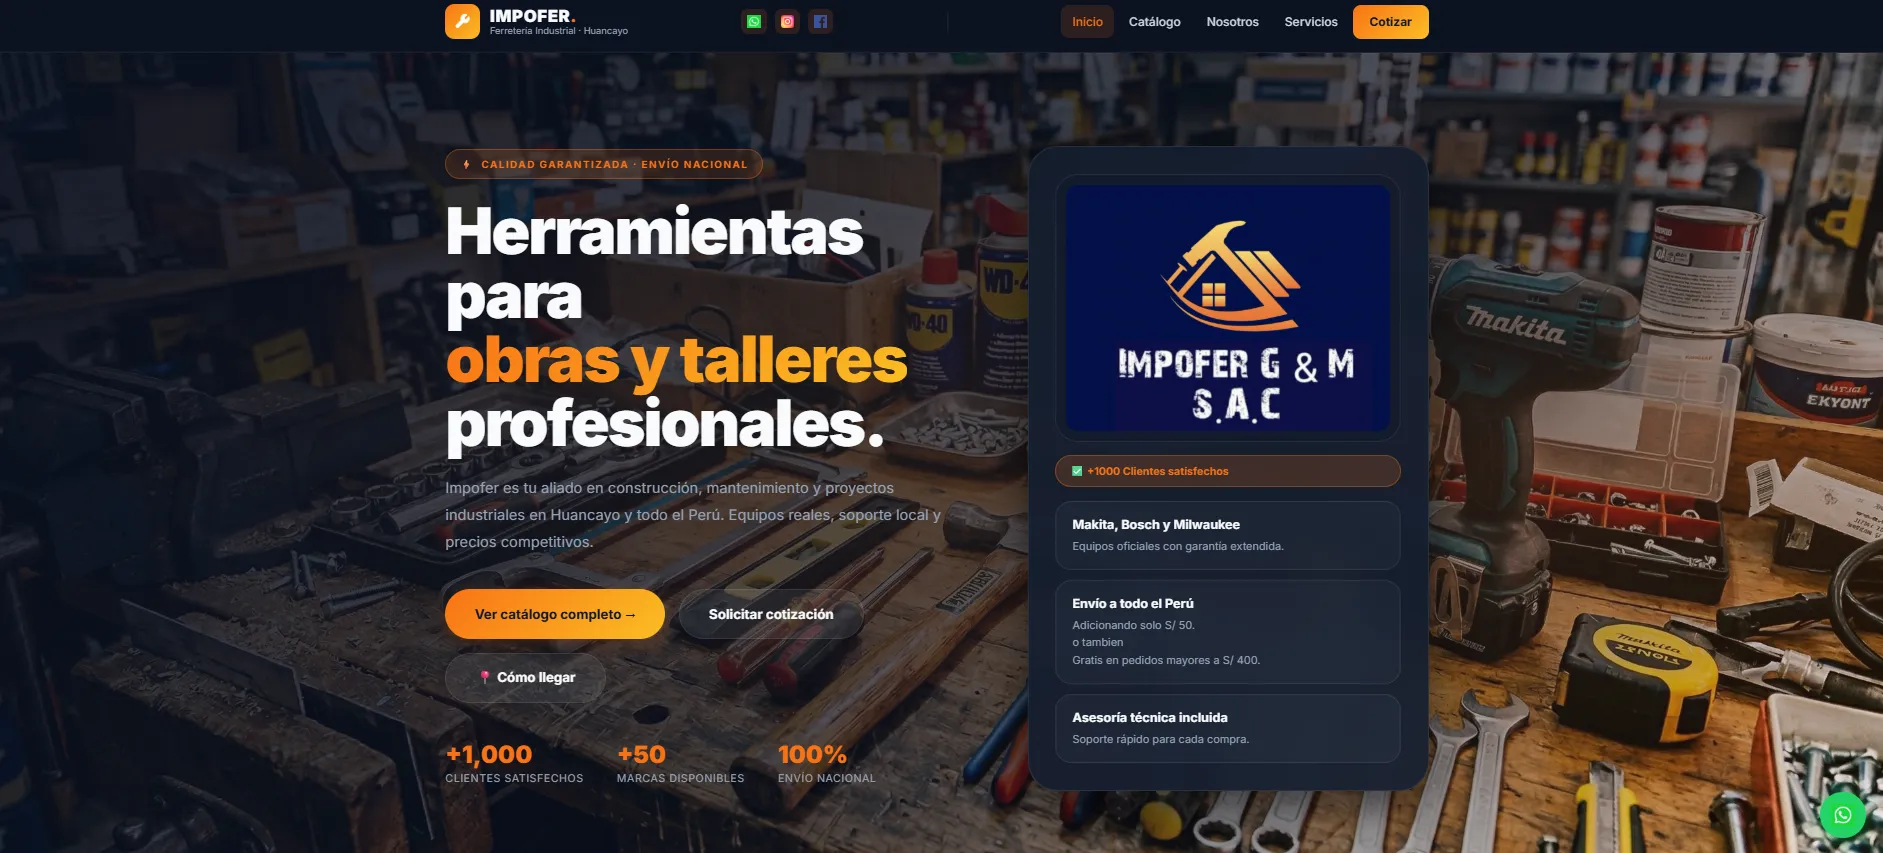
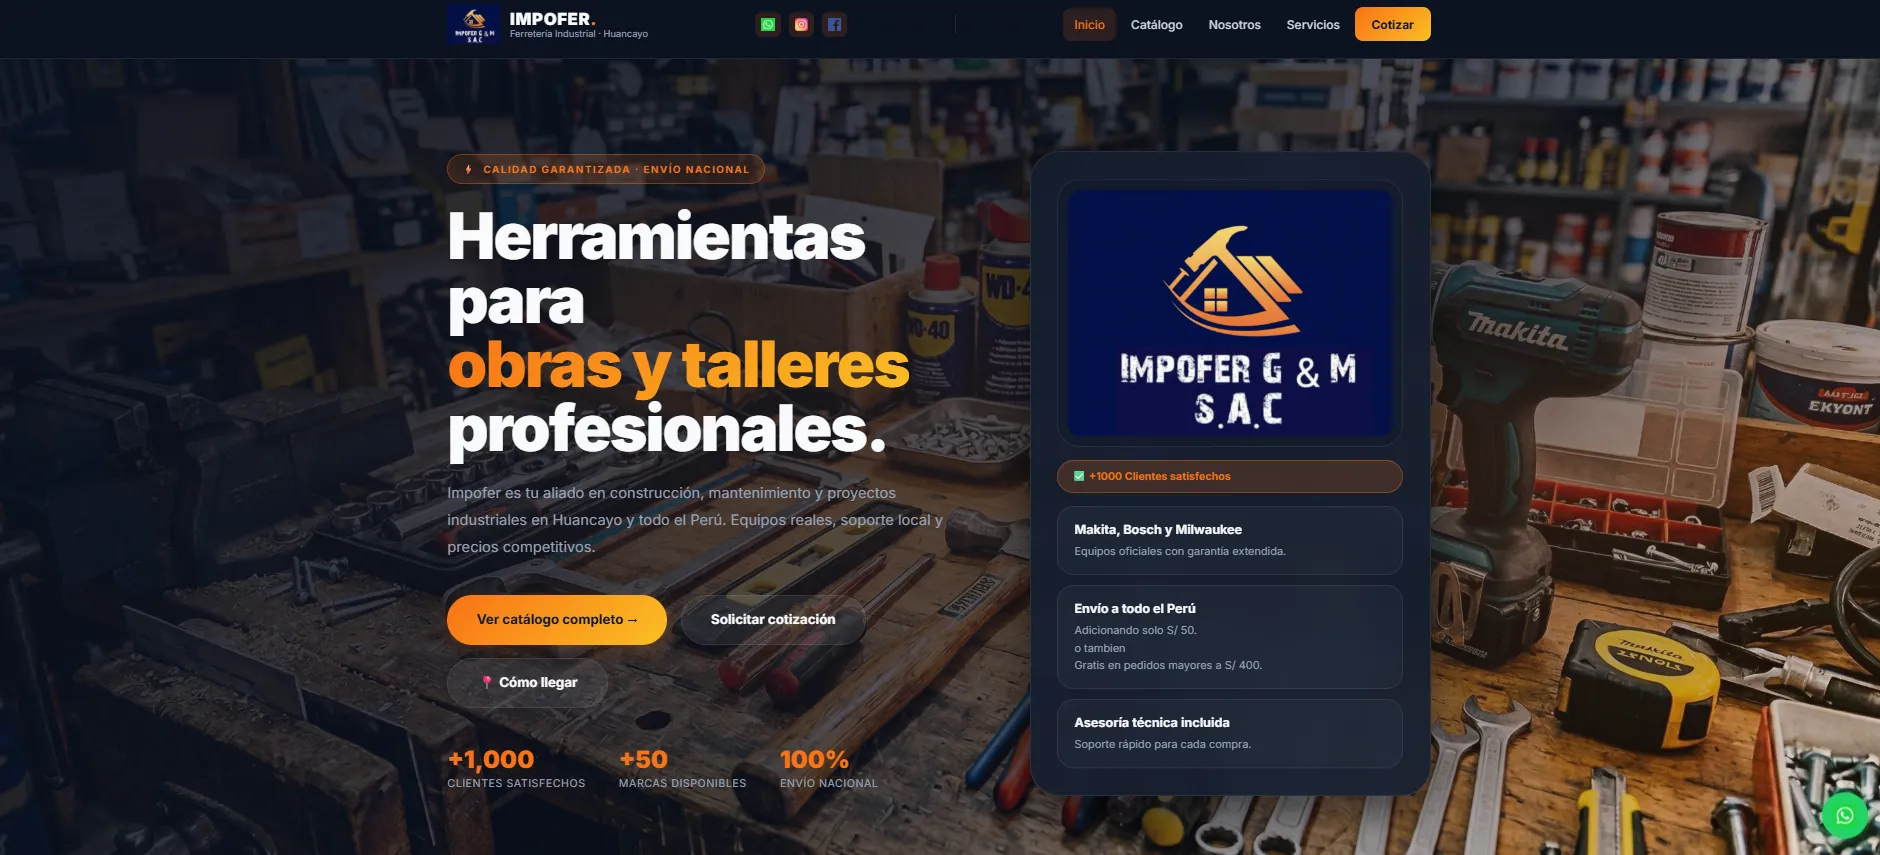
feat: optimizar imagen impofer a webp y redisenar por que elegirnos con SVGs minimalistas

diff --git a/index.html b/index.html
@@ -437,9 +437,31 @@
                 <div class="why-us-card-inner">
                     <div class="why-us-card-front">
                         <span class="why-us-card-num">01</span>
-                        <div class="why-us-card-icon">
-                            <svg width="26" height="26" viewBox="0 0 24 24" fill="none" stroke="currentColor" stroke-width="2" stroke-linecap="round" stroke-linejoin="round"><polyline points="16 18 22 12 16 6"/><polyline points="8 6 2 12 8 18"/></svg>
-                        </div>
+                        <!-- Clean Code Terminal Illustration -->
+                        <svg class="why-us-illustration" viewBox="0 0 200 120" fill="none" xmlns="http://www.w3.org/2000/svg">
+                            <!-- IDE/Terminal Frame -->
+                            <rect x="10" y="10" width="180" height="100" rx="8" fill="var(--card-dark)" stroke="rgba(255, 140, 0, 0.15)" stroke-width="1"/>
+                            <!-- Header Dots -->
+                            <circle cx="24" cy="22" r="3" fill="#EF4444"/>
+                            <circle cx="34" cy="22" r="3" fill="#F59E0B"/>
+                            <circle cx="44" cy="22" r="3" fill="#10B981"/>
+                            <rect x="58" y="19" width="80" height="6" rx="3" fill="rgba(255, 255, 255, 0.1)"/>
+                            
+                            <!-- Editor Lines -->
+                            <rect x="24" y="38" width="50" height="4" rx="2" fill="rgba(255, 255, 255, 0.15)"/>
+                            <rect x="24" y="48" width="90" height="4" rx="2" fill="rgba(255, 140, 0, 0.3)"/>
+                            <rect x="40" y="58" width="70" height="4" rx="2" fill="rgba(255, 255, 255, 0.15)"/>
+                            <rect x="40" y="68" width="110" height="4" rx="2" fill="rgba(0, 229, 255, 0.3)"/>
+                            <rect x="24" y="78" width="60" height="4" rx="2" fill="rgba(255, 255, 255, 0.15)"/>
+                            <rect x="24" y="88" width="40" height="4" rx="2" fill="rgba(255, 140, 0, 0.5)"/>
+                            
+                            <!-- Glowing Center Brackets -->
+                            <g class="bracket-glow">
+                                <path d="M120 45 L110 60 L120 75" stroke="var(--accent-orange)" stroke-width="2.5" stroke-linecap="round" stroke-linejoin="round"/>
+                                <path d="M140 45 L150 60 L140 75" stroke="var(--accent-orange)" stroke-width="2.5" stroke-linecap="round" stroke-linejoin="round"/>
+                                <line x1="133" y1="45" x2="127" y2="75" stroke="var(--accent-cyan)" stroke-width="2" stroke-linecap="round"/>
+                            </g>
+                        </svg>
                         <h3>Sin Plantillas — 100% a Medida</h3>
                         <p>Cada línea de código es escrita para tu negocio. Nada de builders lentos ni temas genéricos.</p>
                         <span class="why-us-card-hint">Pasa el cursor →</span>
@@ -457,9 +479,28 @@
                 <div class="why-us-card-inner">
                     <div class="why-us-card-front">
                         <span class="why-us-card-num">02</span>
-                        <div class="why-us-card-icon">
-                            <svg width="26" height="26" viewBox="0 0 24 24" fill="none" stroke="currentColor" stroke-width="2" stroke-linecap="round" stroke-linejoin="round"><rect x="3" y="11" width="18" height="11" rx="2" ry="2"/><path d="M7 11V7a5 5 0 0 1 10 0v4"/></svg>
-                        </div>
+                        <!-- SSL Security Illustration -->
+                        <svg class="why-us-illustration" viewBox="0 0 200 120" fill="none" xmlns="http://www.w3.org/2000/svg">
+                            <!-- Glowing Shield Grid -->
+                            <path d="M100 15 C130 15 160 25 160 50 C160 85 100 105 100 105 C100 105 40 85 40 50 C40 25 70 15 100 15 Z" fill="rgba(0, 229, 255, 0.03)" stroke="rgba(0, 229, 255, 0.15)" stroke-width="1"/>
+                            
+                            <!-- Shield Internal Pattern -->
+                            <path d="M100 25 L100 95 M50 50 L150 50" stroke="rgba(0, 229, 255, 0.08)" stroke-width="1" stroke-dasharray="4 4"/>
+                            
+                            <!-- Lock Graphic -->
+                            <g class="lock-graphic">
+                                <!-- Lock Shackle -->
+                                <path d="M85 55 V42 C85 34 91.7 28 100 28 C108.3 28 115 34 115 42 V55" stroke="var(--accent-orange)" stroke-width="3" stroke-linecap="round"/>
+                                <!-- Lock Body -->
+                                <rect x="75" y="52" width="50" height="38" rx="8" fill="var(--bg-dark-blue)" stroke="var(--accent-cyan)" stroke-width="2" style="filter: drop-shadow(0 0 8px rgba(0, 229, 255, 0.3));"/>
+                                <!-- Lock Center Core -->
+                                <circle cx="100" cy="68" r="4" fill="var(--accent-orange)"/>
+                                <path d="M100 72 V78" stroke="var(--accent-orange)" stroke-width="2" stroke-linecap="round"/>
+                            </g>
+                            
+                            <!-- Security Pulses -->
+                            <circle cx="100" cy="68" r="45" stroke="rgba(0, 229, 255, 0.2)" stroke-width="1" stroke-dasharray="2 6"/>
+                        </svg>
                         <h3>Seguridad SSL Incluida</h3>
                         <p>HTTPS nativo y encriptación de datos en todas nuestras entregas. Tu negocio protegido.</p>
                         <span class="why-us-card-hint">Pasa el cursor →</span>
@@ -477,9 +518,46 @@
                 <div class="why-us-card-inner">
                     <div class="why-us-card-front">
                         <span class="why-us-card-num">03</span>
-                        <div class="why-us-card-icon">
-                            <svg width="26" height="26" viewBox="0 0 24 24" fill="none" stroke="currentColor" stroke-width="2" stroke-linecap="round" stroke-linejoin="round"><circle cx="11" cy="11" r="8"/><line x1="21" y1="21" x2="16.65" y2="16.65"/></svg>
-                        </div>
+                        <!-- SEO & Rank Graph Illustration -->
+                        <svg class="why-us-illustration" viewBox="0 0 200 120" fill="none" xmlns="http://www.w3.org/2000/svg">
+                            <!-- Grid Lines -->
+                            <line x1="20" y1="95" x2="180" y2="95" stroke="rgba(255, 255, 255, 0.08)" stroke-width="1"/>
+                            <line x1="20" y1="65" x2="180" y2="65" stroke="rgba(255, 255, 255, 0.04)" stroke-width="1"/>
+                            <line x1="20" y1="35" x2="180" y2="35" stroke="rgba(255, 255, 255, 0.04)" stroke-width="1"/>
+                            
+                            <!-- Search engine header -->
+                            <rect x="20" y="10" width="160" height="18" rx="4" fill="rgba(255, 255, 255, 0.03)" stroke="rgba(255, 255, 255, 0.08)" stroke-width="1"/>
+                            <circle cx="28" cy="19" r="2" fill="rgba(255, 255, 255, 0.2)"/>
+                            <circle cx="34" cy="19" r="2" fill="rgba(255, 255, 255, 0.2)"/>
+                            <rect x="44" y="16" width="90" height="6" rx="3" fill="rgba(255, 255, 255, 0.1)"/>
+                            <circle cx="168" cy="19" r="3" fill="var(--accent-orange)"/>
+                            
+                            <!-- SEO Line Chart -->
+                            <path d="M25 85 L60 78 L95 50 L130 58 L165 25" stroke="url(#seoGrad)" stroke-width="3" stroke-linecap="round" stroke-linejoin="round" style="filter: drop-shadow(0 4px 8px rgba(255, 140, 0, 0.25));"/>
+                            
+                            <!-- Chart fill -->
+                            <path d="M25 85 L60 78 L95 50 L130 58 L165 25 V95 H25 Z" fill="url(#seoAreaGrad)" opacity="0.15"/>
+                            
+                            <!-- Interactive Dots -->
+                            <circle cx="95" cy="50" r="3" fill="var(--accent-cyan)"/>
+                            <circle cx="165" cy="25" r="4.5" fill="var(--accent-orange)" stroke="var(--text-white)" stroke-width="1.5"/>
+                            
+                            <!-- Tooltip above top dot -->
+                            <rect x="145" y="2" width="40" height="14" rx="3" fill="var(--accent-orange)" style="filter: drop-shadow(0 2px 4px rgba(0,0,0,0.3));"/>
+                            <text x="165" y="12" font-size="8" fill="var(--bg-dark-blue)" font-family="var(--font-tech)" font-weight="bold" text-anchor="middle">#1</text>
+                            
+                            <!-- Gradients -->
+                            <defs>
+                                <linearGradient id="seoGrad" x1="0%" y1="100%" x2="100%" y2="0%">
+                                    <stop offset="0%" stop-color="var(--accent-cyan)" />
+                                    <stop offset="100%" stop-color="var(--accent-orange)" />
+                                </linearGradient>
+                                <linearGradient id="seoAreaGrad" x1="0%" y1="0%" x2="0%" y2="100%">
+                                    <stop offset="0%" stop-color="var(--accent-orange)" />
+                                    <stop offset="100%" stop-color="transparent" />
+                                </linearGradient>
+                            </defs>
+                        </svg>
                         <h3>SEO Nativo Integrado</h3>
                         <p>Estructura semántica y metadatos optimizados. Diseñado desde el día 1 para Google.</p>
                         <span class="why-us-card-hint">Pasa el cursor →</span>
@@ -497,9 +575,49 @@
                 <div class="why-us-card-inner">
                     <div class="why-us-card-front">
                         <span class="why-us-card-num">04</span>
-                        <div class="why-us-card-icon">
-                            <svg width="26" height="26" viewBox="0 0 24 24" fill="none" stroke="currentColor" stroke-width="2" stroke-linecap="round" stroke-linejoin="round"><circle cx="12" cy="12" r="10"/><line x1="2" y1="12" x2="22" y2="12"/><path d="M12 2a15.3 15.3 0 0 1 4 10 15.3 15.3 0 0 1-4 10 15.3 15.3 0 0 1-4-10 15.3 15.3 0 0 1 4-10z"/></svg>
-                        </div>
+                        <!-- Global CDN Network Illustration -->
+                        <svg class="why-us-illustration" viewBox="0 0 200 120" fill="none" xmlns="http://www.w3.org/2000/svg">
+                            <!-- Glowing Center Globe Grid -->
+                            <circle cx="100" cy="60" r="45" stroke="rgba(0, 229, 255, 0.15)" stroke-width="1"/>
+                            
+                            <!-- Globe Latitude/Longitude Curves -->
+                            <path d="M55 60 H145" stroke="rgba(0, 229, 255, 0.15)" stroke-width="1"/>
+                            <path d="M100 15 V105" stroke="rgba(0, 229, 255, 0.15)" stroke-width="1"/>
+                            <path d="M68 30 C80 40 80 80 68 90" stroke="rgba(0, 229, 255, 0.1)" stroke-width="1"/>
+                            <path d="M132 30 C120 40 120 80 132 90" stroke="rgba(0, 229, 255, 0.1)" stroke-width="1"/>
+                            <ellipse cx="100" cy="60" rx="45" ry="18" stroke="rgba(0, 229, 255, 0.1)" stroke-width="1"/>
+                            <ellipse cx="100" cy="60" rx="45" ry="32" stroke="rgba(0, 229, 255, 0.1)" stroke-width="1"/>
+                            
+                            <!-- Global Ping Arcs (CDN Nodes connection) -->
+                            <path d="M60 45 C80 20 120 20 140 45" stroke="var(--accent-orange)" stroke-width="1.5" stroke-linecap="round" stroke-dasharray="3 5"/>
+                            <path d="M70 75 C90 95 110 95 130 75" stroke="var(--accent-cyan)" stroke-width="1.5" stroke-linecap="round" stroke-dasharray="2 4"/>
+                            
+                            <!-- Active CDN Nodes (Pulsing Circles) -->
+                            <!-- Perú Node (Center-leftish) -->
+                            <g class="cdn-node active">
+                                <circle cx="70" cy="68" r="6" fill="rgba(255, 140, 0, 0.25)"/>
+                                <circle cx="70" cy="68" r="3" fill="var(--accent-orange)"/>
+                            </g>
+                            <!-- US Node (Top-leftish) -->
+                            <g class="cdn-node">
+                                <circle cx="75" cy="38" r="2" fill="var(--accent-cyan)"/>
+                            </g>
+                            <!-- Europe Node (Top-rightish) -->
+                            <g class="cdn-node">
+                                <circle cx="120" cy="35" r="2" fill="var(--accent-cyan)"/>
+                            </g>
+                            <!-- Asia/Japan Node (Rightish) -->
+                            <g class="cdn-node">
+                                <circle cx="140" cy="55" r="2" fill="var(--accent-orange)"/>
+                            </g>
+                            <!-- Latam East Node -->
+                            <g class="cdn-node">
+                                <circle cx="95" cy="85" r="2" fill="var(--accent-cyan)"/>
+                            </g>
+                            
+                            <!-- Orbit line -->
+                            <path d="M100 10 A50 50 0 0 1 150 60" stroke="rgba(255, 140, 0, 0.2)" stroke-width="1" stroke-linecap="round"/>
+                        </svg>
                         <h3>Alcance Global desde Perú</h3>
                         <p>Hosting con CDN global. Carga en &lt;1.5s desde cualquier continente.</p>
                         <span class="why-us-card-hint">Pasa el cursor →</span>

diff --git a/interfaz01.css b/interfaz01.css
@@ -8337,7 +8337,7 @@ footer {
     border: none !important;
     box-shadow: none !important;
     backdrop-filter: none !important;
-    min-height: 320px;
+    min-height: 400px;
     cursor: pointer;
 }
 .why-us-card::before { display: none !important; }
@@ -8347,7 +8347,7 @@ footer {
     position: relative;
     width: 100%;
     height: 100%;
-    min-height: 320px;
+    min-height: 400px;
     transform-style: preserve-3d;
     transition: transform 0.72s cubic-bezier(0.4, 0, 0.2, 1);
     will-change: transform;
@@ -8435,6 +8435,48 @@ footer {
     margin-top: auto;
     font-family: var(--font-tech);
     text-transform: uppercase;
+}
+
+/* --- ILUSTRACIONES MINIMALISTAS PARA WHY-US --- */
+.why-us-illustration {
+    width: 100%;
+    height: 120px;
+    margin: 8px 0 16px 0;
+    display: block;
+    transition: var(--transition-smooth);
+}
+
+/* Hover Animations inside SVGs */
+.why-us-card:hover .why-us-illustration {
+    transform: scale(1.04);
+}
+
+.why-us-card:hover .bracket-glow {
+    filter: drop-shadow(0 0 8px rgba(255, 140, 0, 0.7));
+    transition: var(--transition-smooth);
+}
+
+.why-us-card:hover .lock-graphic {
+    transform: translateY(-2px);
+    transition: var(--transition-smooth);
+}
+
+@keyframes lockPulse {
+    0%, 100% { filter: drop-shadow(0 0 4px rgba(0, 229, 255, 0.25)); }
+    50% { filter: drop-shadow(0 0 12px rgba(0, 229, 255, 0.65)); }
+}
+
+.why-us-card:hover .lock-graphic rect {
+    animation: lockPulse 2s infinite ease-in-out;
+}
+
+@keyframes cdnPulse {
+    0%, 100% { transform: scale(1); opacity: 0.7; }
+    50% { transform: scale(1.2); opacity: 1; }
+}
+
+.why-us-card:hover .cdn-node.active circle:first-child {
+    animation: cdnPulse 1.5s infinite ease-in-out;
 }
 
 [data-theme="light"] .why-us-card-front {